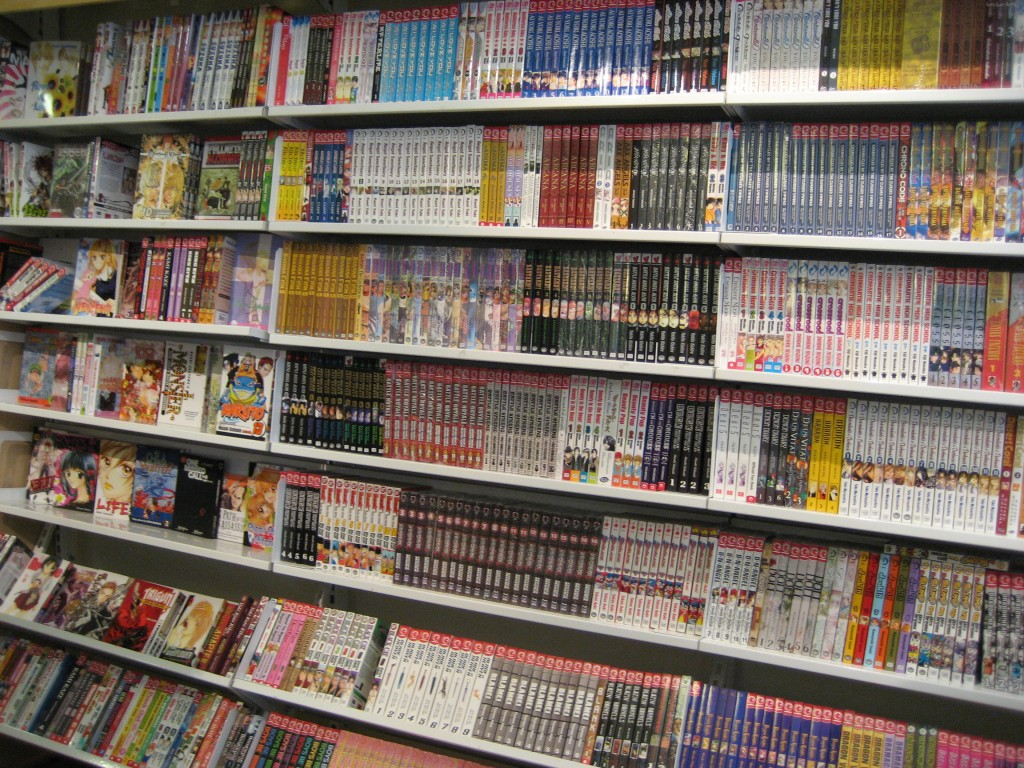
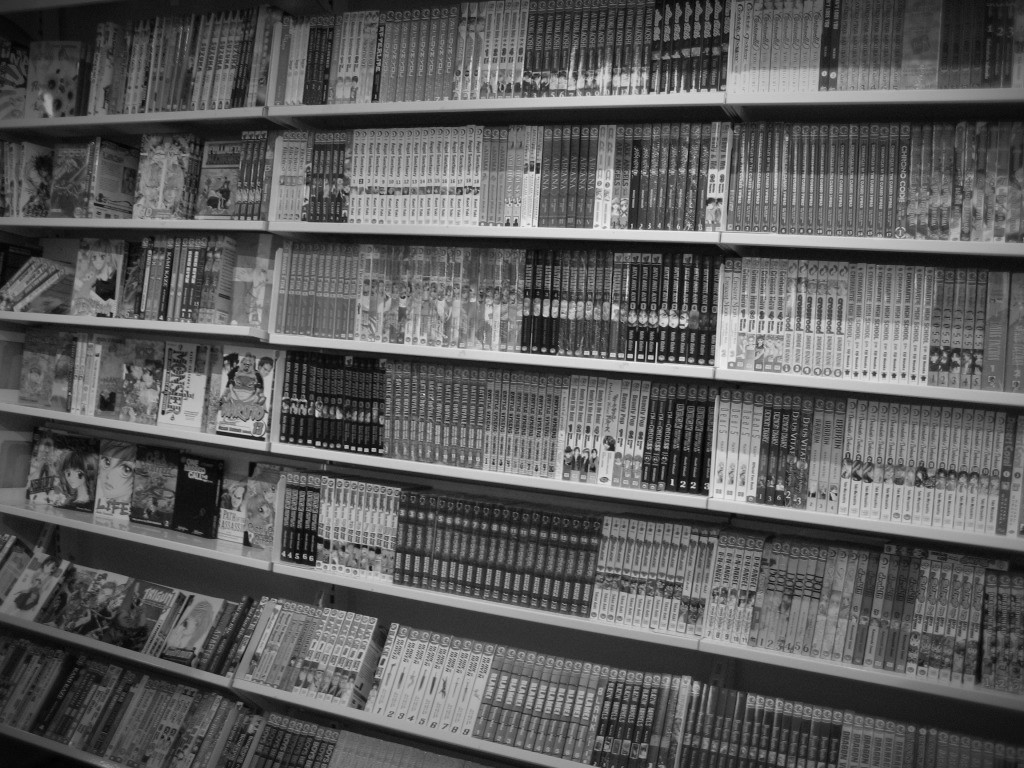
b&w background img

diff --git a/src/pages/EditProfile.tsx b/src/pages/EditProfile.tsx
@@ -1,6 +1,8 @@
 import { CaretRight, CheckCircle } from "phosphor-react";
 import { useState } from "react";
 
+import background from '../img/mangas.jpg';
+
 export function EditProfile(){
     const [name, setName] = useState('')
     const [cpf, setCpf] = useState('')
@@ -12,7 +14,7 @@ export function EditProfile(){
     const [tel2, setTel2] = useState('')
 
     return(
-        <div className="dark:bg-slate-800 dark:text-zinc-50 flex w-[100vw] h-[100vh] justify-center items-center">
+        <div style={{backgroundImage: `url(${background})`}} className="dark:bg-slate-800 dark:text-zinc-50 flex w-[100vw] h-[100vh] justify-center items-center bg-[url(backgroundImage)] bg-cover">
             <div className="dark:bg-gray-900 flex flex-col items-center bg-white p-6 rounded-lg border-2">
                 <h1 className="mb-2">Editar Perfil</h1>
 

diff --git a/src/pages/Register.tsx b/src/pages/Register.tsx
@@ -1,6 +1,8 @@
 import { CaretRight, CheckCircle } from "phosphor-react";
 import { useState } from "react";
 
+import background from '../img/mangas.jpg';
+
 export function Register(){
     const [name, setName] = useState('')
     const [cpf, setCpf] = useState('')
@@ -12,7 +14,7 @@ export function Register(){
     const [tel2, setTel2] = useState('')
 
     return(
-        <div className="flex w-[100vw] h-[100vh] justify-center items-center">
+        <div style={{backgroundImage: `url(${background})`}} className="flex w-[100vw] h-[100vh] justify-center items-center bg-[url(backgroundImage)] bg-cover">
             <div className="flex flex-col items-center bg-white p-6 rounded-lg border-2">
                 <h1 className="mb-2">Cadastro</h1>
 

diff --git a/src/pages/Auth.tsx b/src/pages/Auth.tsx
@@ -1,9 +1,11 @@
 import { FacebookLogo, GoogleLogo } from "phosphor-react";
 import { Link } from "react-router-dom";
 
+import background from '../img/mangas.jpg';
+
 export function Auth(){
     return(
-        <div className="flex w-[100vw] h-[100vh] justify-center items-center">
+        <div style={{backgroundImage: `url(${background})`}} className="flex w-[100vw] h-[100vh] justify-center items-center bg-[url(backgroundImage)] bg-cover">
             <div className="flex flex-col items-center bg-white p-6 rounded-lg border-2">
                 <h1 className="mb-3">Autentique através:</h1>
 
